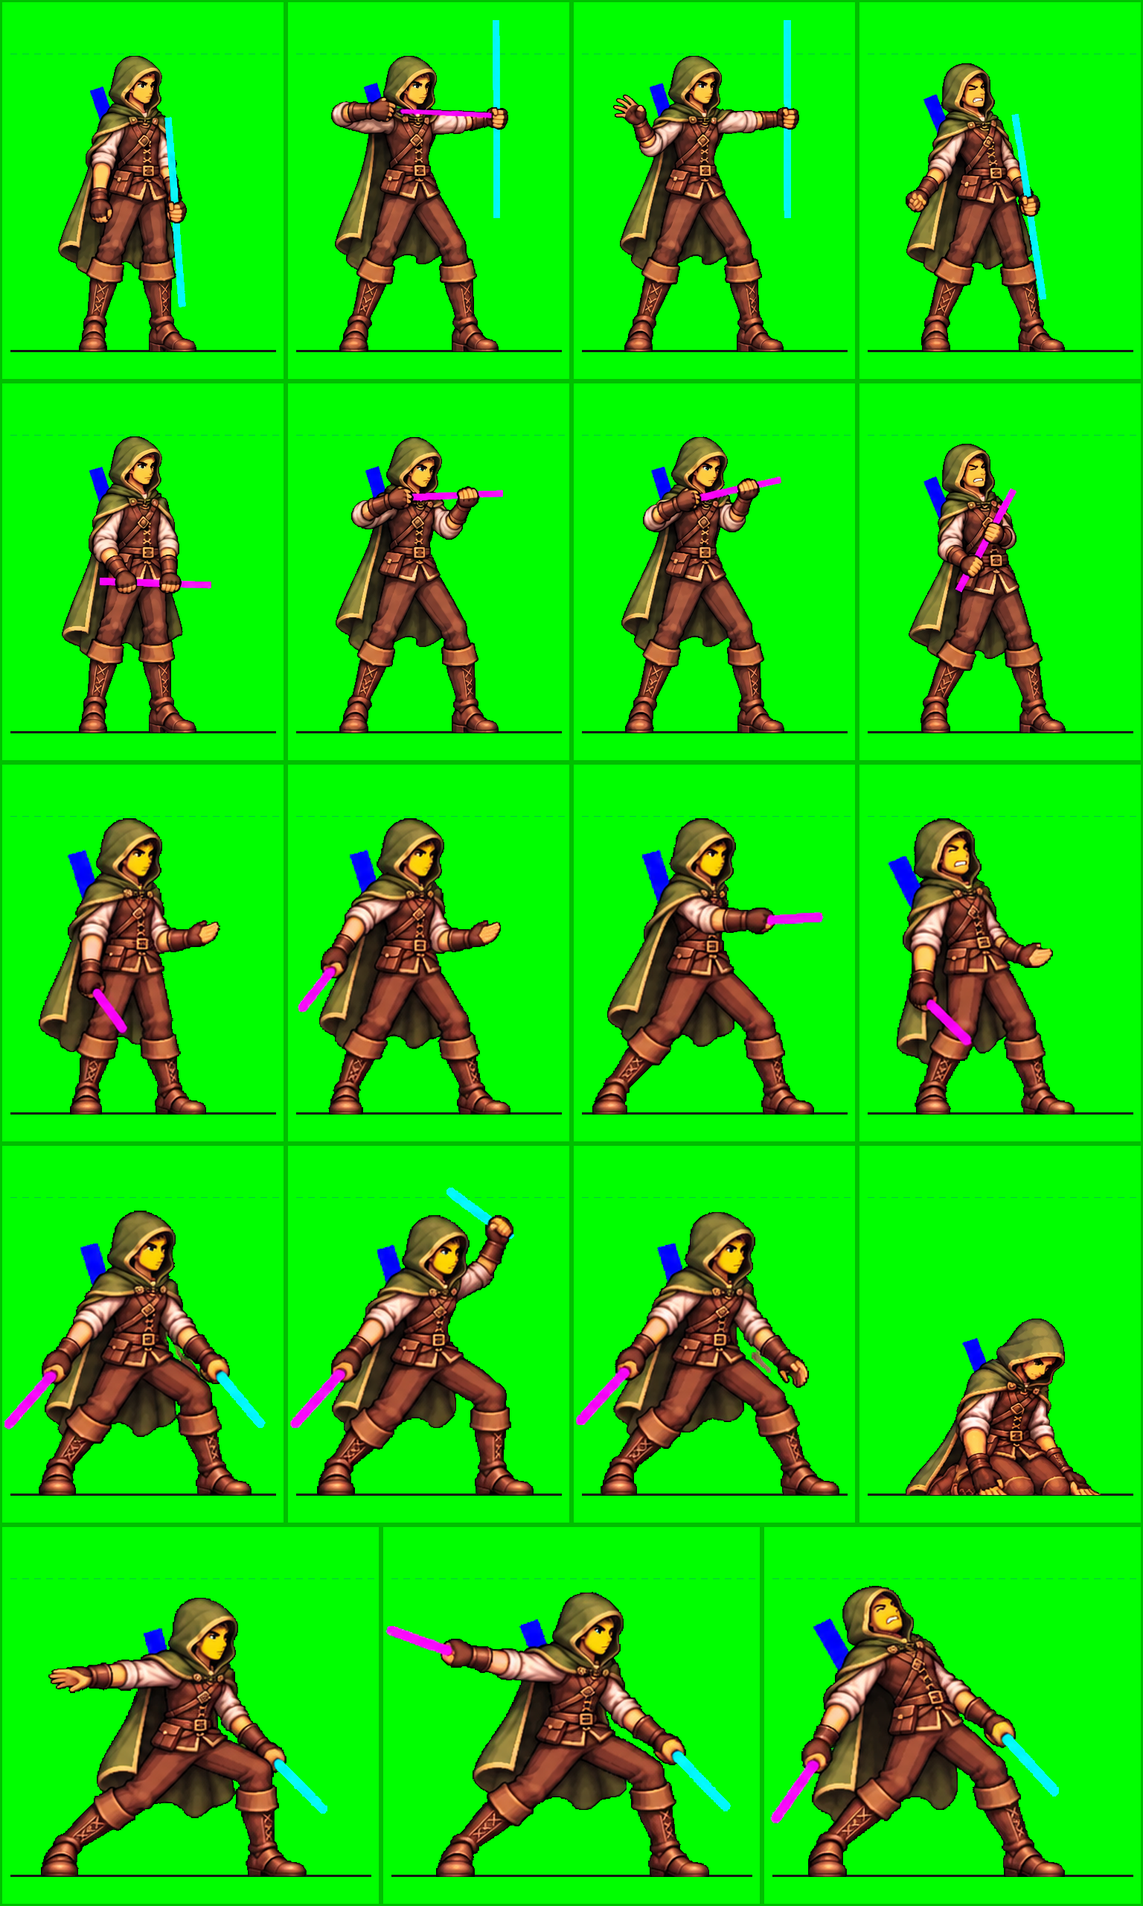
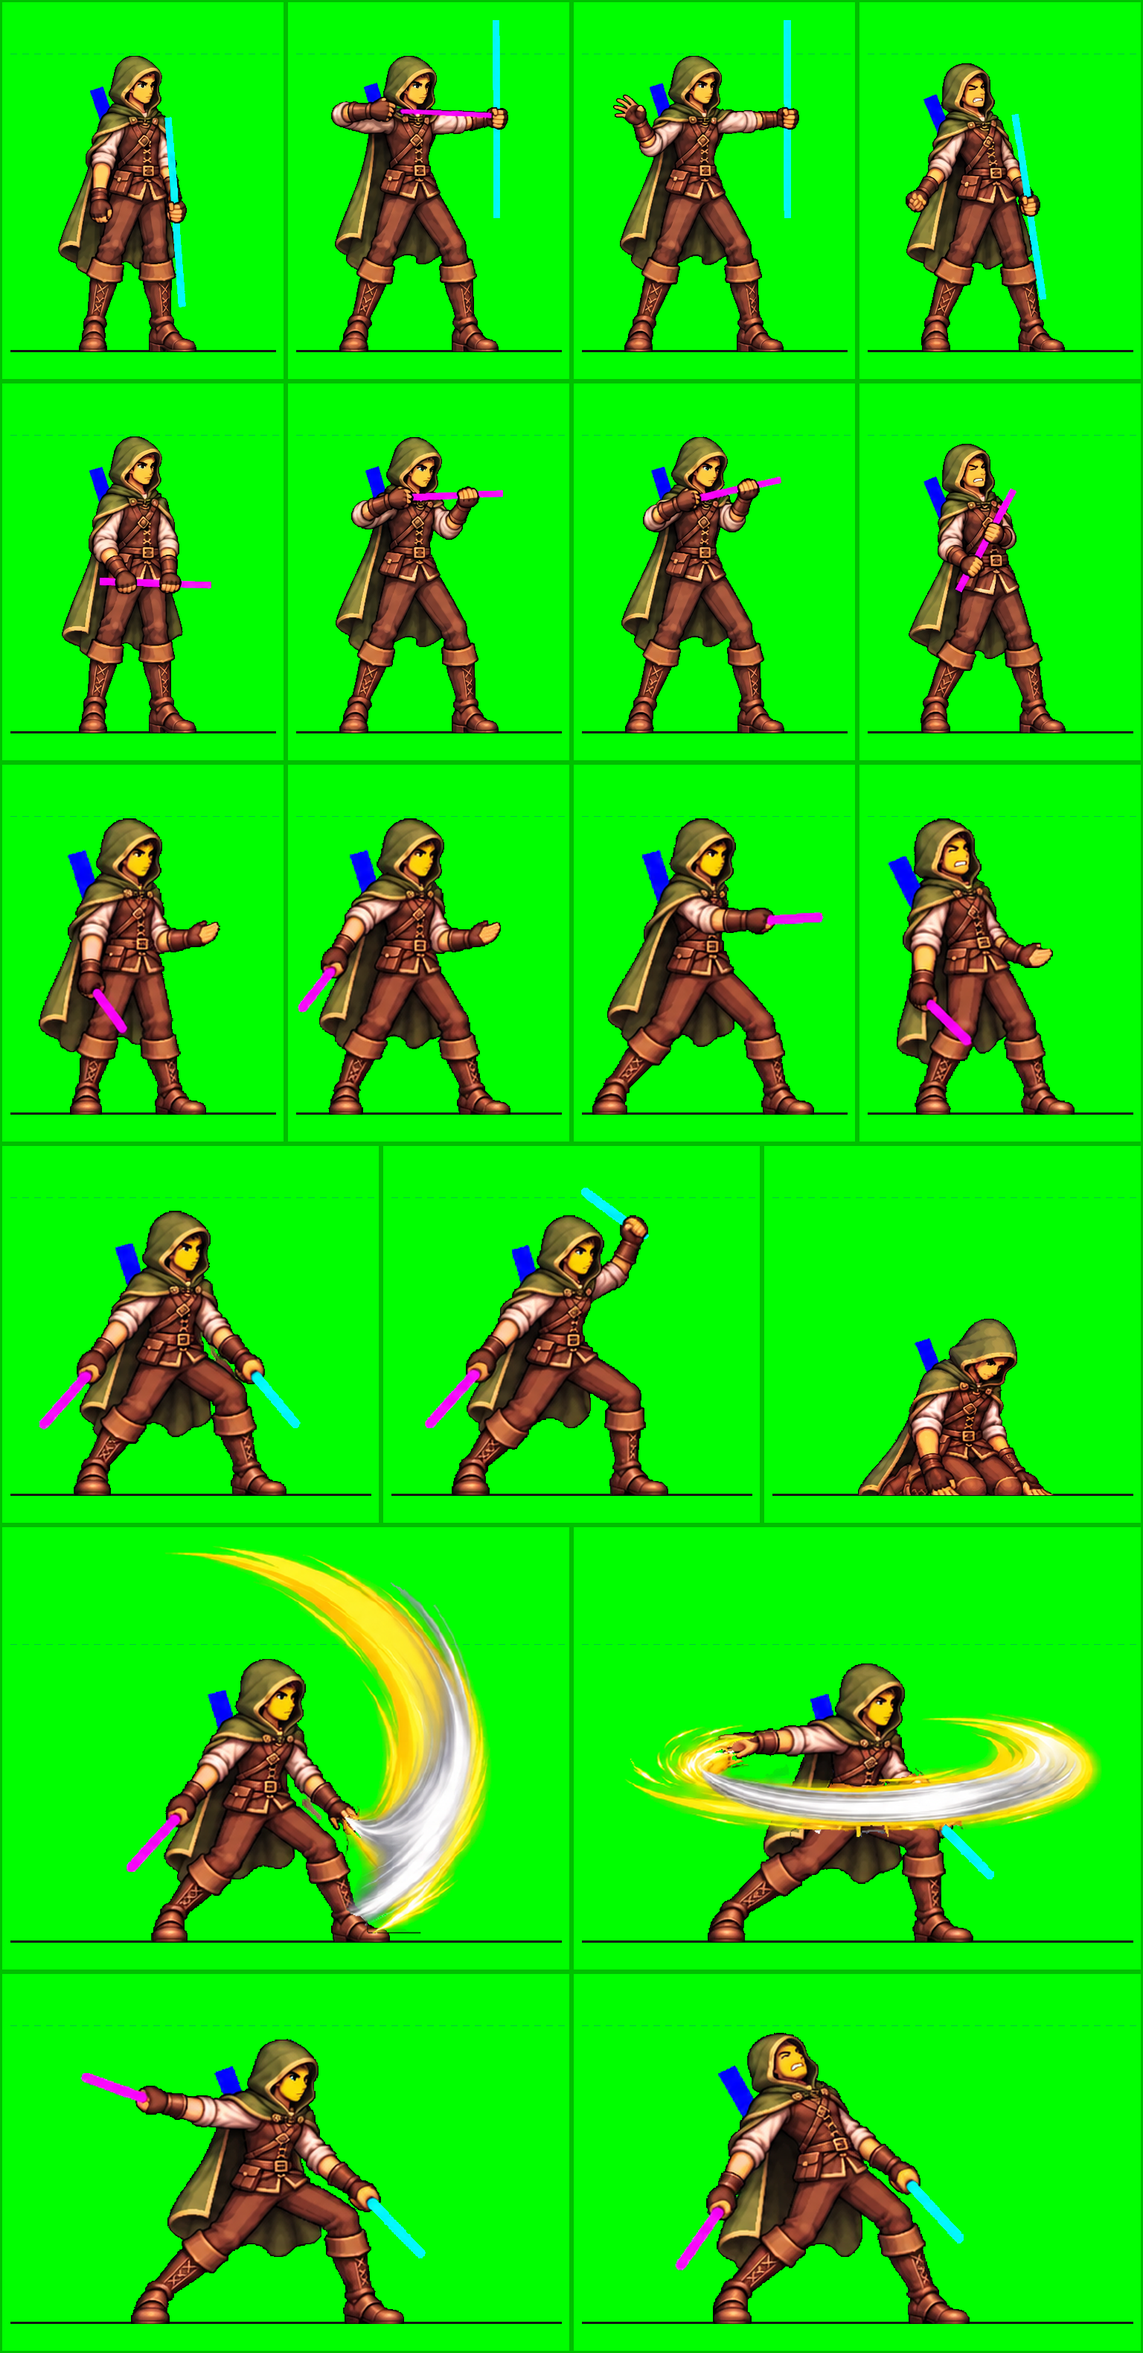
Archer combined sheet: slash 1 / slash 2 in wide cells with the slash arc + smear
Claude-Session: https://claude.ai/code/session_01M8ejkLTav7LEMdtajuWjkN

diff --git a/art_source/new_art/battle/tools/combine_archer_sheet.py b/art_source/new_art/battle/tools/combine_archer_sheet.py
@@ -1,7 +1,7 @@
 """All male Archer poses on ONE sheet (user, 2026-11-25: "Combine archer sheet into one but only Male Archer").
 Figures are lifted from the three finished sheets, scaled to one size (the bow sheet's) and stood on the ground line of
 fresh 512-tall cells; slash arcs are not included (they are a separate layer).
-Rows: bow (4) | crossbow (4) | one dagger (4) | dual stand, ready, slash 1 + downed | dual slash 2, finish, hit (wide cells).
+Rows: bow (4) | crossbow (4) | one dagger (4) | dual stand, ready + downed | dual slash 1, slash 2 (wide, taller row,\nwith the slash arc + smear drawn on, as approved on review_archer_dagger_fx.png) | dual finish, hit.
 Output: source/archer_m_all_sheet.png (1536 x 2560) + archer_m_all_layout.json (cell -> stance/state)."""
 import os, sys, json, numpy as np
 from PIL import Image, ImageDraw
@@ -40,15 +40,18 @@ s_down = ref / body_height(down, (0, 512, 512, 1024))        # the downed sheet'
 ROWS = [[(bow, bcell[('bow', s)], 1.0, 'bow', s) for s in ('stand', 'nock', 'attack', 'hit')],
         [(bow, bcell[('crossbow', s)], 1.0, 'crossbow', s) for s in ('stand', 'aim', 'attack', 'hit')],
         [(dag, dcell[('1h', s)], s_dag, '1h', s) for s in ('stand', 'ready', 'attack', 'hit')],
-        [(dag, dcell[('dual', s)], s_dag, 'dual', s) for s in ('stand', 'ready', 'slash_left')]
-        + [(down, (0, 0, 512, 512), s_down, 'downed', 'downed')],
-        [(dag, dcell[('dual', s)], s_dag, 'dual', s) for s in ('slash_right', 'finish', 'hit')]]
-out = Image.new('RGB', (1536, 512 * len(ROWS)), GREEN); d = ImageDraw.Draw(out); layout = []
+        [(dag, dcell[('dual', s)], s_dag, 'dual', s) for s in ('stand', 'ready')] + [(down, (0, 0, 512, 512), s_down, 'downed', 'downed')],
+        [(dag, dcell[('dual', s)], s_dag, 'dual', s) for s in ('slash_left', 'slash_right')],
+        [(dag, dcell[('dual', s)], s_dag, 'dual', s) for s in ('finish', 'hit')]]
+ROW_H = [512, 512, 512, 512, 600, 512]          # the slash row is taller: the chop arc rises above the hood
+FX = json.load(open(os.path.join(HERE, 'source', 'archer_dagger_m_fx', 'offsets.json')))['offsets']
+out = Image.new('RGB', (1536, sum(ROW_H)), GREEN); d = ImageDraw.Draw(out); layout = []; fx_jobs = []
 for r, row in enumerate(ROWS):
     cw = 1536 / len(row)
     for c, (img, box, s, stance, state) in enumerate(row):
-        x0, y0 = round(c * cw), r * 512
-        d.rectangle([x0, y0, round((c + 1) * cw) - 1, y0 + 511], outline=BORDER, width=3)
+        x0, rh = round(c * cw), ROW_H[r]; y0 = sum(ROW_H[:r]) + rh - 512      # cell content keeps the 512-cell lines
+        top = sum(ROW_H[:r])
+        d.rectangle([x0, top, round((c + 1) * cw) - 1, top + rh - 1], outline=BORDER, width=3)
         d.line([(x0 + 14, y0 + G_Y), (round((c + 1) * cw) - 14, y0 + G_Y)], fill=LINE, width=3)
         for x in range(x0 + 14, round((c + 1) * cw) - 14, 16): d.line([(x, y0 + T_Y), (x + 8, y0 + T_Y)], fill=DASH, width=1)
         cell, fig, feet, fx = lift(img, box)
@@ -59,7 +62,16 @@ for r, row in enumerate(ROWS):
         if L < x0 + 6: ox += round(x0 + 6 - L)
         elif R > x0 + cw - 6: ox -= round(R - (x0 + cw - 6))
         out.paste(fi.convert('RGB'), (ox, oy), fi.getchannel('A').point(lambda v: 255 if v > 128 else 0))
-        layout.append(dict(row=r, col=c, box=[x0, y0, round((c + 1) * cw), y0 + 512], stance=stance, state=state))
+        layout.append(dict(row=r, col=c, box=[x0, top, round((c + 1) * cw), top + rh], stance=stance, state=state))
+        if stance == 'dual' and state in FX:       # the slash arc + smear, as on review_archer_dagger_fx.png
+            fx_jobs.append((state, ox + FX[state][0] * s, oy + FX[state][1] * s, s, (x0, top, round((c + 1) * cw), top + rh)))
+for state, fx0, fy0, s, (bx0, by0, bx1, by1) in fx_jobs:
+    lay = Image.open(os.path.join(HERE, 'source', 'archer_dagger_m_fx', f'{state}.png')).convert('RGBA')
+    lay = lay.resize((round(lay.width * s), round(lay.height * s)), Image.LANCZOS)
+    full = Image.new('RGBA', out.size, (0, 0, 0, 0)); full.alpha_composite(lay, (max(0, round(fx0)), max(0, round(fy0)))) if fx0 >= 0 and fy0 >= 0 else full.paste(lay, (round(fx0), round(fy0)), lay)
+    m = Image.new('L', out.size, 0); ImageDraw.Draw(m).rectangle([bx0 + 3, by0 + 3, bx1 - 4, by1 - 4], fill=255)
+    a = Image.fromarray((np.asarray(full.getchannel('A')).astype(np.uint16) * (np.asarray(m) > 0)).astype(np.uint8))
+    full.putalpha(a); o2 = out.convert('RGBA'); o2.alpha_composite(full); out = o2.convert('RGB')
 out.save(os.path.join(HERE, 'source', 'archer_m_all_sheet.png'))
 json.dump(layout, open(os.path.join(HERE, 'source', 'archer_m_all_layout.json'), 'w'), indent=1)
 print('scales: dagger', round(s_dag, 3), 'downed', round(s_down, 3))

diff --git a/docs/design-decisions.md b/docs/design-decisions.md
@@ -30,7 +30,7 @@ Archer and Mage melee weapons limited to **light** weapons on 2026-11-16 (user: 
 
 **Shields (user, 2026-11-20): each class has its own shield shape** — Soldier = **square** shield, Acolyte and Warrior = **round** shield (the Warrior could not use shields before; this adds it), **kite shield = reserved for a future Knight class**. A one-handed weapon **without** a shield uses the **dual-weapon stance** (left hand empty) in battle sprites. **The shield look is fixed per class** (user, 2026-11-20): shield equipment comes in broad categories (**light shield, heavy shield, tower shield**) that change the rules only; the sprite and the shield stance always show the class's own shield. Shield categories are not in the weapon sheet yet. **Headgear (user, 2026-11-20): battle sprites wear class headgear, portraits never do.** It is drawn into the sprite body by ChatGPT, so battle sprites have **no hair layer** (the portrait-hair sample is dropped for helmeted classes, `HEADGEAR` in `process_battle.py`). **Soldier final design** (`source/concepts/soldier_final_design.png`): plain open-face **barbute helm** (no crest, gold or emblem), simple silver plate armour, blue scarf and tabard, brown leather belt and gloves; the face is the only skin (yellow key). Soldier v3 prompt in `PROMPTS.md` (4 rows: square shield, dual, two-handed, spear), ~6 heads tall including the helmet. Helmet variations and faction colours on that sheet are not used. **Hair under the helmet (user, 2026-11-20):** ChatGPT draws a long-hair ponytail behind the neck in shades of **pure red** (never covering the body); `process_battle.py` cuts it into a hair value-map layer tinted with the hero's hair ramp and shows it **only for long portrait hairstyles** (`art_source/new_art/battle/hair_length.json`: male ponytail, long, wild_mane; female long, ponytail, braids, wavy, side_braid, curly_mane, warrior_halfup; buns/topknots/crown braids count as short). Both sexes get the piece. **Four sprites per stance (user, 2026-11-20, extends the three-sprite rule):** STAND | **READY** (the wind-up a moment before the attack) | ATTACK | GET HIT; the **dual row** is STAND | **ATTACK 1 (main hand)** | **ATTACK 2 (off-hand)** | GET HIT, because dual wield hits twice. Playback: stand → ready → attack → stand (dual: stand → attack 1 → attack 2 → stand); one weapon in the dual stance uses only attack 1. Soldier template is now 4 × 4 (`make_refs.py` `CLASS_STATES`), prompt v5 in `PROMPTS.md`. **Hand convention (corrected 2026-11-20):** in right-facing sprites the character's **LEFT arm is the lead arm** (right side of the picture, the shield arm) and the **RIGHT arm is the rear arm**; magenta (main weapon) is always in the right/rear hand, cyan in the left/lead hand, and the main-hand attack swings the rear arm forward across the body. An earlier prompt rule ("right hand leading on the right of the picture") was wrong and made ChatGPT draw both dual attacks with the left arm; the v5 male sheet's dual stand/hit are swapped back in code (`SWAP_HANDS`) and its ATTACK 1 needs the edit prompt in `PROMPTS.md`. **Dual weapons get their own sheet (user's dual-slash concept, 2026-11-21):** stand → ready (front/cyan arm winds up) → slash 1 (cyan chops down) → slash 2 (magenta sweeps across) → finish (magenta follow-through) → plus get hit; template `soldier_dual_template.png` (2 × 3), prompt names the arms only by rod colour (front arm = cyan, back arm = magenta), never left/right. Main Soldier sheet is now 3 rows × 4 (shield, two-handed, spear). One weapon without shield plays stand → slash 2 → finish from the magenta hand. The off-hand (cyan) hit shows first, the main hand second. **Slash waves (user, 2026-11-21):** in slash 1 the cyan weapon is hidden behind a slash wave (a chop arc from overhead down to the front foot), in slash 2 the magenta weapon is hidden behind a waist-level sweep wave; both weapons show again in finish (`SLASH_HIDE` / `slash_wave()` in `process_battle.py`). **Male dual sheet hand-fixed (2026-11-21):** ChatGPT kept putting the cyan rod on the near arm in slash 1 and swinging the main arm forward in slash 2 / finish, so those cells were rebuilt in code from the sheet's own parts (raw sheet in `source/concepts/soldier_dual_m_gpt_raw.png`); the near arm (big pauldron over the chest, left of the picture) always holds magenta. `SWAP_HANDS` is now empty. **Slash frames = drawn arc + weapon smear (user, 2026-11-21):** the user drew slash 1 and slash 2 in Gemini with a yellow slash arc and a grey **weapon smear** that does not show which weapon was swung (any one-handed weapon fits; a code-drawn motion-blurred sword was rejected as bad design and removed). Gemini then put them into the dual sheet (`source/concepts/soldier_dual_<sex>_sheet_gemini_smear.png`); `tools/green_fx_split.py` lifts the arc and smear off the green into a soft-alpha effect layer (`source/soldier_dual_<sex>_fx.png`) so their yellow never reaches the skin key, and fills the body hidden under the waist sweep. In those frames the swinging hand's weapon is not drawn (the smear stands for it); the other hand's weapon is drawn as usual; fists hidden under the smear are given in `source/soldier_dual_<sex>_grips.json`. `slash_wave()` in code remains the fallback for sheets without a drawn effect. **Female Soldier done (2026-11-21):** both female sheets are Gemini edits of the finished male sheets (main 4 × 4 v5 layout, `SHEET_ROWS` for both sexes; dual with the drawn effects); edit-the-finished-sheet is the method that avoided the arm/hand mistakes. **Metallic armour (user, 2026-11-21):** the AI sheets shade the Soldier's plate with a rosy tint, which read as red armour; `process_battle.py` `to_steel()` (classes in `METAL_ARMOUR`) turns rosy greys into cool steel of the same brightness and the maroon padding between plates into dark steel mail, leaving blue cloth, brown leather, gold trim, hair and skin alone. Applies to every Soldier layer, both sexes. **Downed sprite (user, 2026-11-24):** one downed pose per sex shared by every Soldier loadout (kneeling on both knees, head hanging, empty hands on the ground; no weapon or shield). ChatGPT drew it on `templates/soldier_downed_template.png` (the finished stand figures in the bottom row as reference); `process_battle.py` `process_downed()` scales it from those stand figures and writes `sprites/soldier_<sex>_<loadout>_downed.png` for every loadout. The game export still shows downed as the greyed hit frame until it picks up the new `downed` state. **Dual row:** the first helmet sheets drew the dual stand facing the viewer and the attack side-on, so the weapon seemed to change hands; the Soldier v4 prompt keeps the right hand leading on the right of the figure in all three poses.
 
-**Archer battle sprites (2026-11-24/25):** design sheet by ChatGPT (`source/concepts/archer_design.png`), **hood up** (user's headgear choice), so the hood hides the hair (no hair key) and the face is the only skin. Poses come from **mannequin pose drafts drawn in code** (`tools/archer_pose_draft.py`, `refs/archer_*pose_draft.png`): NEAR arm darker in front, FAR arm lighter behind, sticks in the right hands. Two sheets: **main = bow + crossbow, done** (`source/archer_m_sheet.png`, ChatGPT from the 2 × 4 pose draft, 2026-11-25): bow row stand | nock | release | hit (bow = cyan stick in the far hand, arrow = magenta line), crossbow row stand | aim | release | hit (one magenta stock in both fists). **Dagger sheet** (user, 2026-11-25: one ChatGPT task, "combine 1 handed you design and old dual weapon pose"), 4 × 3: row 1 = **one dagger** stand | ready | attack | hit (off-hand open and empty - for the Archer this replaces the one-weapon-uses-the-dual-stance rule); rows 2-3 = **dual daggers with the Soldier's dual poses** (stand | ready | slash 1 | slash 2 | finish | hit), the pose sheet shows the Soldier's finished dual figures, so the Soldier's drawn slash arc/smear can be reused: **done for the male** (2026-11-25, user: slash 1 and 2 were missing the wave) with `tools/reuse_slash_fx.py` - the Soldier's effect cell scaled by the stand-height ratio and placed on the Archer's feet, saved whole (arcs reach past the cell) as `source/archer_dagger_m_fx/<state>.png` + `offsets.json`; preview `review_archer_dagger_fx.png`. Male dagger sheet = `source/archer_dagger_m_sheet.png` (ChatGPT). **Archer downed sprite** (2026-11-25): ChatGPT on `templates/archer_downed_template.png` (bottom row = male bow stand, female from the design sheet; pose copied from the Soldier's downed sheet) -> `source/archer_downed_sheet.png`, both sexes, kneeling, hood up, empty hands, blue quiver marker. **Combined male sheet** (user, 2026-11-25): `tools/combine_archer_sheet.py` puts all 19 male poses at one scale on `source/archer_m_all_sheet.png` (1536 × 2560; rows: bow | crossbow | one dagger | dual stand, ready, slash 1 + downed | dual slash 2, finish, hit), cell map in `archer_m_all_layout.json`; slash arcs are not on it (separate layer). Note: every Archer sheet shows a little brown fringe of hair under the hood; it stays a fixed brown (not keyed to the hero's hair colour). The blue back marker stands for the quiver **or** the bolt case (same back slot; the game shows whichever ammunition is equipped). Not yet built into sprites: `process_battle.py` needs Archer loadouts (bow as a cyan stick, a code-drawn crossbow, the blue quiver marker cut out and replaced by the quiver layer). Male first by ChatGPT, female as Gemini edits of the finished male sheets.
+**Archer battle sprites (2026-11-24/25):** design sheet by ChatGPT (`source/concepts/archer_design.png`), **hood up** (user's headgear choice), so the hood hides the hair (no hair key) and the face is the only skin. Poses come from **mannequin pose drafts drawn in code** (`tools/archer_pose_draft.py`, `refs/archer_*pose_draft.png`): NEAR arm darker in front, FAR arm lighter behind, sticks in the right hands. Two sheets: **main = bow + crossbow, done** (`source/archer_m_sheet.png`, ChatGPT from the 2 × 4 pose draft, 2026-11-25): bow row stand | nock | release | hit (bow = cyan stick in the far hand, arrow = magenta line), crossbow row stand | aim | release | hit (one magenta stock in both fists). **Dagger sheet** (user, 2026-11-25: one ChatGPT task, "combine 1 handed you design and old dual weapon pose"), 4 × 3: row 1 = **one dagger** stand | ready | attack | hit (off-hand open and empty - for the Archer this replaces the one-weapon-uses-the-dual-stance rule); rows 2-3 = **dual daggers with the Soldier's dual poses** (stand | ready | slash 1 | slash 2 | finish | hit), the pose sheet shows the Soldier's finished dual figures, so the Soldier's drawn slash arc/smear can be reused: **done for the male** (2026-11-25, user: slash 1 and 2 were missing the wave) with `tools/reuse_slash_fx.py` - the Soldier's effect cell scaled by the stand-height ratio and placed on the Archer's feet, saved whole (arcs reach past the cell) as `source/archer_dagger_m_fx/<state>.png` + `offsets.json`; preview `review_archer_dagger_fx.png`. Male dagger sheet = `source/archer_dagger_m_sheet.png` (ChatGPT). **Archer downed sprite** (2026-11-25): ChatGPT on `templates/archer_downed_template.png` (bottom row = male bow stand, female from the design sheet; pose copied from the Soldier's downed sheet) -> `source/archer_downed_sheet.png`, both sexes, kneeling, hood up, empty hands, blue quiver marker. **Combined male sheet** (user, 2026-11-25): `tools/combine_archer_sheet.py` puts all 19 male poses at one scale on `source/archer_m_all_sheet.png` (1536 × 3160; rows: bow | crossbow | one dagger | dual stand, ready + downed | dual slash 1, slash 2 in wide cells of a taller row **with the slash arc + smear drawn on** (user, 2026-11-25) | dual finish, hit), cell map in `archer_m_all_layout.json`. Note: every Archer sheet shows a little brown fringe of hair under the hood; it stays a fixed brown (not keyed to the hero's hair colour). The blue back marker stands for the quiver **or** the bolt case (same back slot; the game shows whichever ammunition is equipped). Not yet built into sprites: `process_battle.py` needs Archer loadouts (bow as a cyan stick, a code-drawn crossbow, the blue quiver marker cut out and replaced by the quiver layer). Male first by ChatGPT, female as Gemini edits of the finished male sheets.
 
 **Warrior look (user, 2026-11-18): a barbarian, but armored** — can wear up to medium armor, so leather and chain or scale over a barbarian build (furs, leather harness), not the old Brawler's sleeveless tunic. Exact outfit to be drawn with the new art. Legacy battle-sprite and portrait files keep the name `brawler` (they are the old look and reference only).
 

diff --git a/art_source/new_art/battle/PROMPTS.md b/art_source/new_art/battle/PROMPTS.md
@@ -772,6 +772,7 @@ Keep exactly as they are:
 - every pose: the same stance, legs, body angle and arm positions in each cell, nothing mirrored;
 - the flat magenta and cyan sticks in the hands: the same stick in the same hand, at the same angle and length, the same flat colours with no shading; open empty hands stay open and empty;
 - the flat pure blue bar on the back in every cell;
+- the yellow slash arc and grey motion smear in the two wide slash cells: same shape, size, position and colours;
 - the outfit and colours: forest-green hood (UP) and cloak with the thin gold trim, brown leather vest laced over a white shirt, brass buckles, bracers, fingerless gloves, brown trousers, laced boots, belt and pouch;
 - the face painted in shades of pure yellow, as in both images; no hair outside the hood, no red anywhere;
 - the pixel-art style, outlines and shading.
@@ -781,4 +782,5 @@ Do not add weapons, a quiver, effects, shadows, text or anything else. Output th
 If a cell changes pose or a stick swaps hands: attach Gemini's result together with the male sheet and say "Fix the cell in
 row <r>, position <c> of the first image so its pose and sticks match the same cell of the second image. Keep everything else."
 If Gemini returns the sheet smaller, that is fine (the build rescales); if it crops or squashes it, do the sheet in two
-halves (rows 1-3, rows 4-5) by cropping the male sheet first.
+halves (rows 1-3, rows 4-6) by cropping the male sheet first. (2026-11-25: the sheet now has 6 rows, 1536 x 3160 - the
+slash 1 / slash 2 row is wide and taller and carries the slash arc + smear, at the user's request.)
